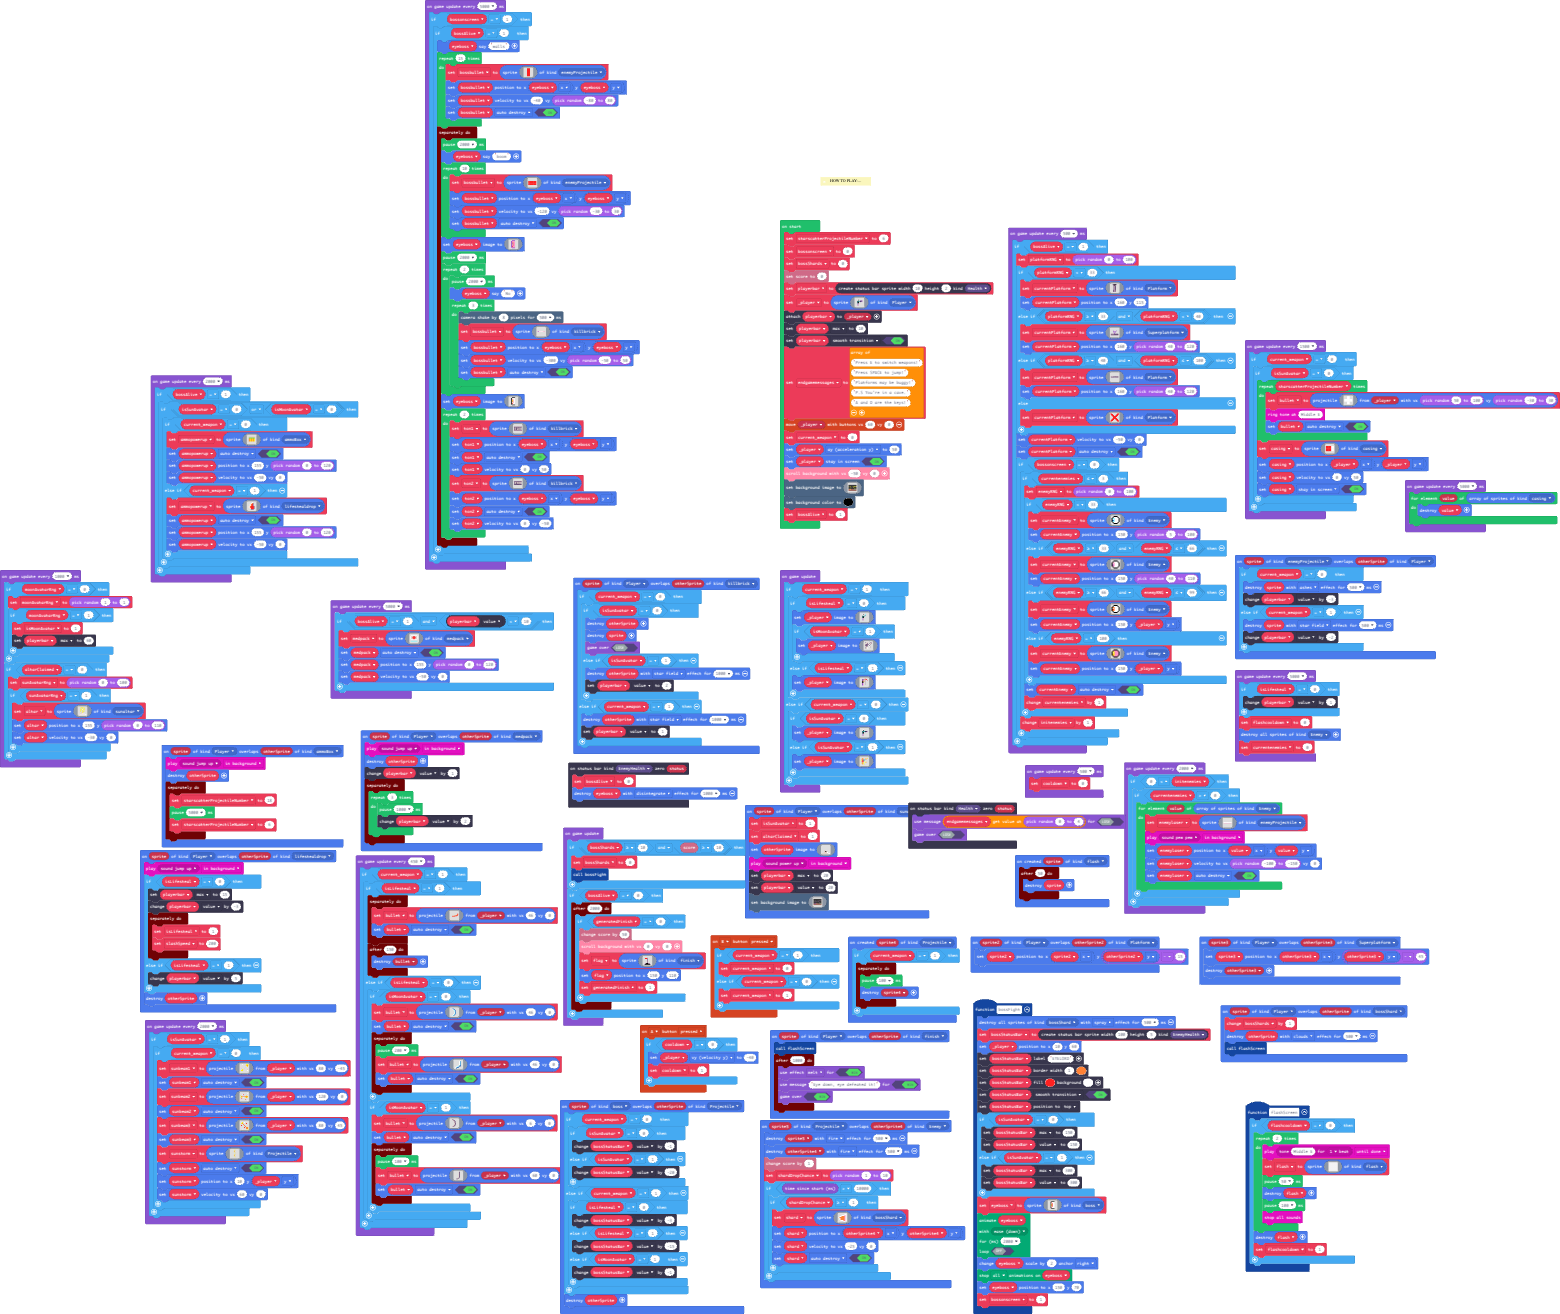
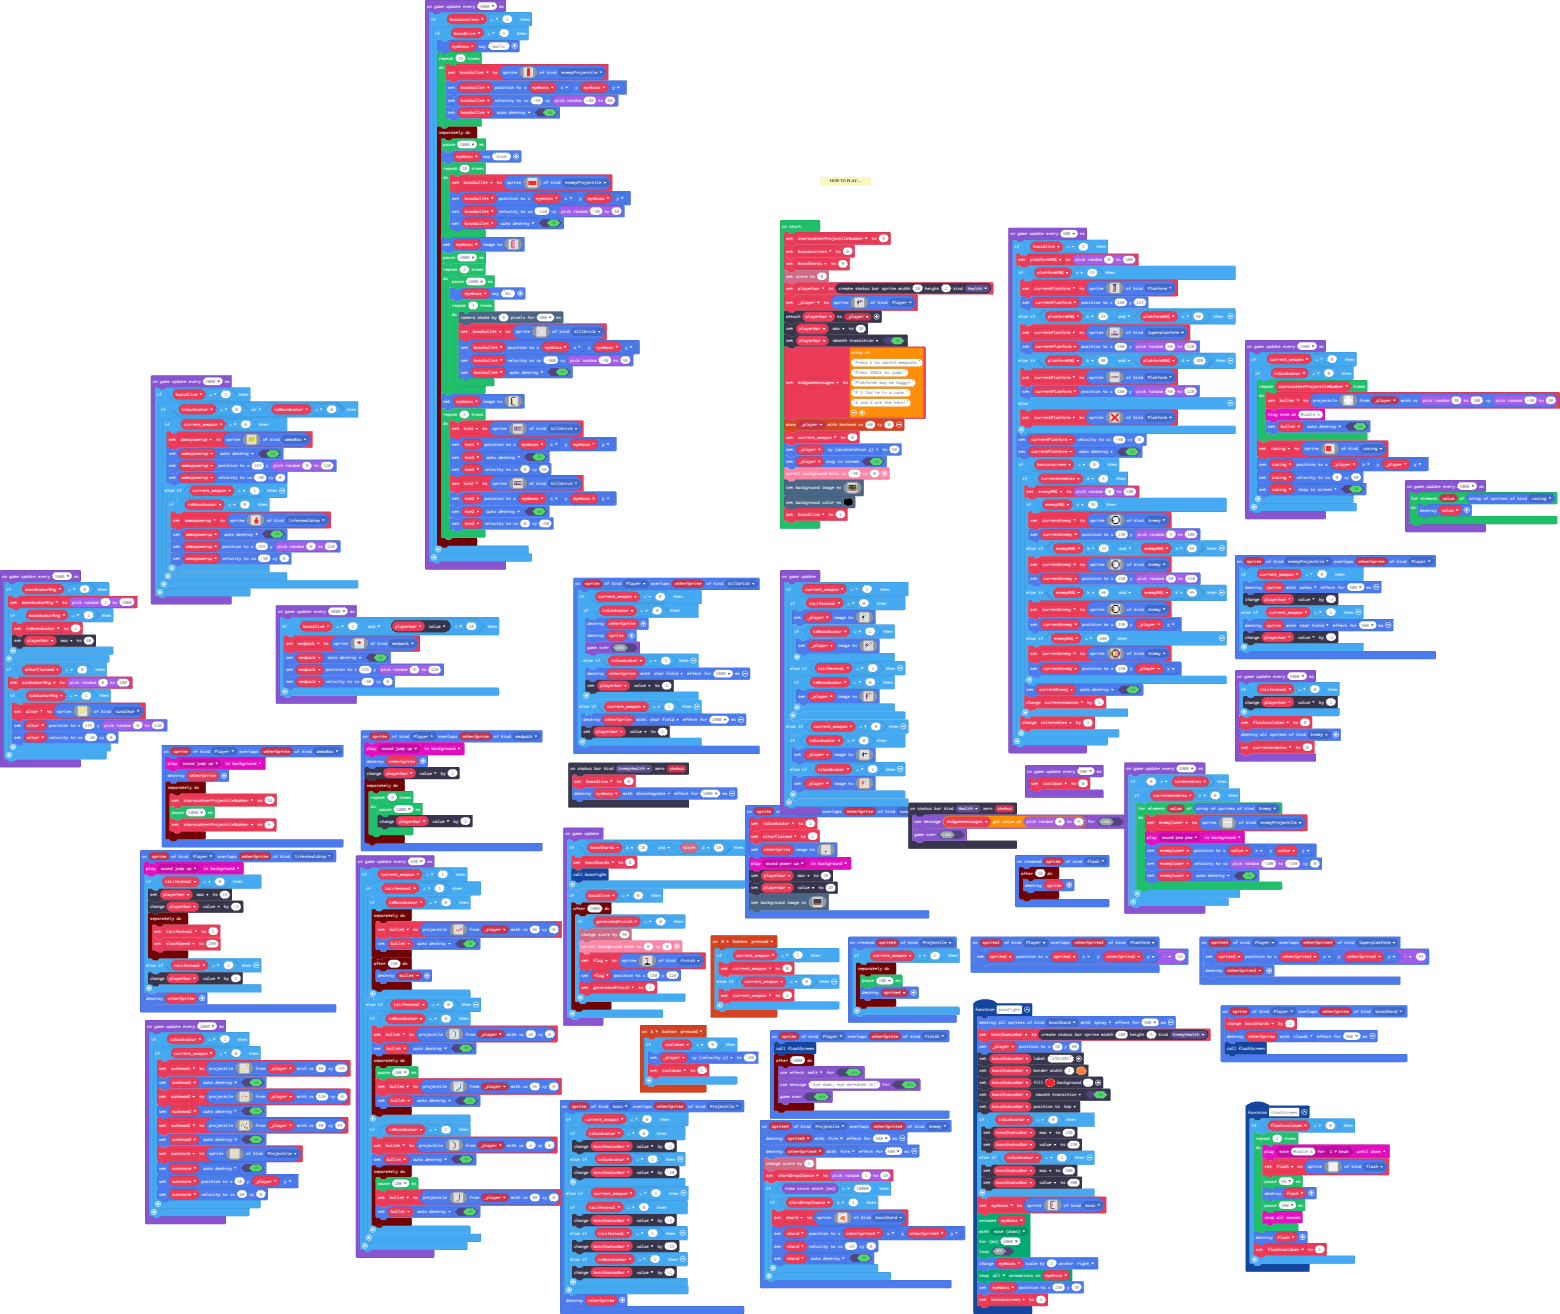
Update main.blocks, main.ts

Changed region(s): [[0.2154, 0.6553, 0.3692, 0.9673], [0.0923, 0.3744, 0.3692, 0.5616], [0.4923, 0.4992, 0.5846, 0.624]]

diff --git a/main.ts b/main.ts
@@ -772,7 +772,9 @@ game.onUpdate(function () {
                 _player.setImage(assets.image`moonAvatar`)
             }
         } else if (isLifesteal == 1) {
-            _player.setImage(assets.image`player_swordlifesteal`)
+            if (isMoonAvatar == 0) {
+                _player.setImage(assets.image`player_swordlifesteal`)
+            }
         }
     } else if (current_weapon == 0) {
         if (isSunAvatar == 0) {
@@ -1042,19 +1044,21 @@ game.onUpdateInterval(2000, function () {
                 ammopowerup.setPosition(155, randint(0, 120))
                 ammopowerup.setVelocity(-50, 0)
             } else if (current_weapon == 1) {
-                ammopowerup = sprites.create(img`
-                    . . . 1 . . 
-                    . . 1 4 b . 
-                    . 1 4 2 b . 
-                    . 1 4 2 b . 
-                    1 4 2 2 2 b 
-                    1 4 2 2 2 b 
-                    . 1 2 2 2 b 
-                    . . b b b . 
-                    `, SpriteKind.lifestealdrop)
-                ammopowerup.setFlag(SpriteFlag.AutoDestroy, true)
-                ammopowerup.setPosition(155, randint(0, 120))
-                ammopowerup.setVelocity(-50, 0)
+                if (isMoonAvatar == 0) {
+                    ammopowerup = sprites.create(img`
+                        . . . 1 . . 
+                        . . 1 4 b . 
+                        . 1 4 2 b . 
+                        . 1 4 2 b . 
+                        1 4 2 2 2 b 
+                        1 4 2 2 2 b 
+                        . 1 2 2 2 b 
+                        . . b b b . 
+                        `, SpriteKind.lifestealdrop)
+                    ammopowerup.setFlag(SpriteFlag.AutoDestroy, true)
+                    ammopowerup.setPosition(155, randint(0, 120))
+                    ammopowerup.setVelocity(-50, 0)
+                }
             }
         }
     }
@@ -1209,7 +1213,7 @@ game.onUpdateInterval(2000, function () {
 })
 game.onUpdateInterval(1000, function () {
     if (moonAvatarRng == 0) {
-        moonAvatarRng = randint(1, 1)
+        moonAvatarRng = randint(1, 1000)
         if (moonAvatarRng == 1) {
             isMoonAvatar = 1
             playerbar.max = 60
@@ -1249,24 +1253,26 @@ game.onUpdateInterval(1500, function () {
 game.onUpdateInterval(450, function () {
     if (current_weapon == 1) {
         if (isLifesteal == 1) {
-            timer.background(function () {
-                bullet = sprites.createProjectileFromSprite(img`
-                    . . . . . . . . . . . . . . . . . . . 
-                    . . . . . . . . . . . . . . . . . 2 2 
-                    . . . . . . . . . . . . . . . . 4 4 2 
-                    . . . . . . . . . . . . . . . . 4 2 2 
-                    . . . . . . . . . . . . . . 4 4 4 2 . 
-                    . . . . . . . . . . 4 4 4 4 4 2 2 2 . 
-                    . . . . 4 4 4 4 4 4 4 2 2 2 2 2 . . . 
-                    . . . . 2 2 2 2 2 2 2 2 . . . . . . . 
-                    . . . . . . . . . . . . . . . . . . . 
-                    . . . . . . . . . . . . . . . . . . . 
-                    `, _player, 46, 0)
-                bullet.setFlag(SpriteFlag.AutoDestroy, true)
-            })
-            timer.after(150, function () {
-                sprites.destroy(bullet)
-            })
+            if (isMoonAvatar == 0) {
+                timer.background(function () {
+                    bullet = sprites.createProjectileFromSprite(img`
+                        . . . . . . . . . . . . . . . . . . . 
+                        . . . . . . . . . . . . . . . . . 2 2 
+                        . . . . . . . . . . . . . . . . 4 4 2 
+                        . . . . . . . . . . . . . . . . 4 2 2 
+                        . . . . . . . . . . . . . . 4 4 4 2 . 
+                        . . . . . . . . . . 4 4 4 4 4 2 2 2 . 
+                        . . . . 4 4 4 4 4 4 4 2 2 2 2 2 . . . 
+                        . . . . 2 2 2 2 2 2 2 2 . . . . . . . 
+                        . . . . . . . . . . . . . . . . . . . 
+                        . . . . . . . . . . . . . . . . . . . 
+                        `, _player, 46, 0)
+                    bullet.setFlag(SpriteFlag.AutoDestroy, true)
+                })
+                timer.after(150, function () {
+                    sprites.destroy(bullet)
+                })
+            }
         } else if (isLifesteal == 0) {
             if (isMoonAvatar == 0) {
                 bullet = sprites.createProjectileFromSprite(img`
